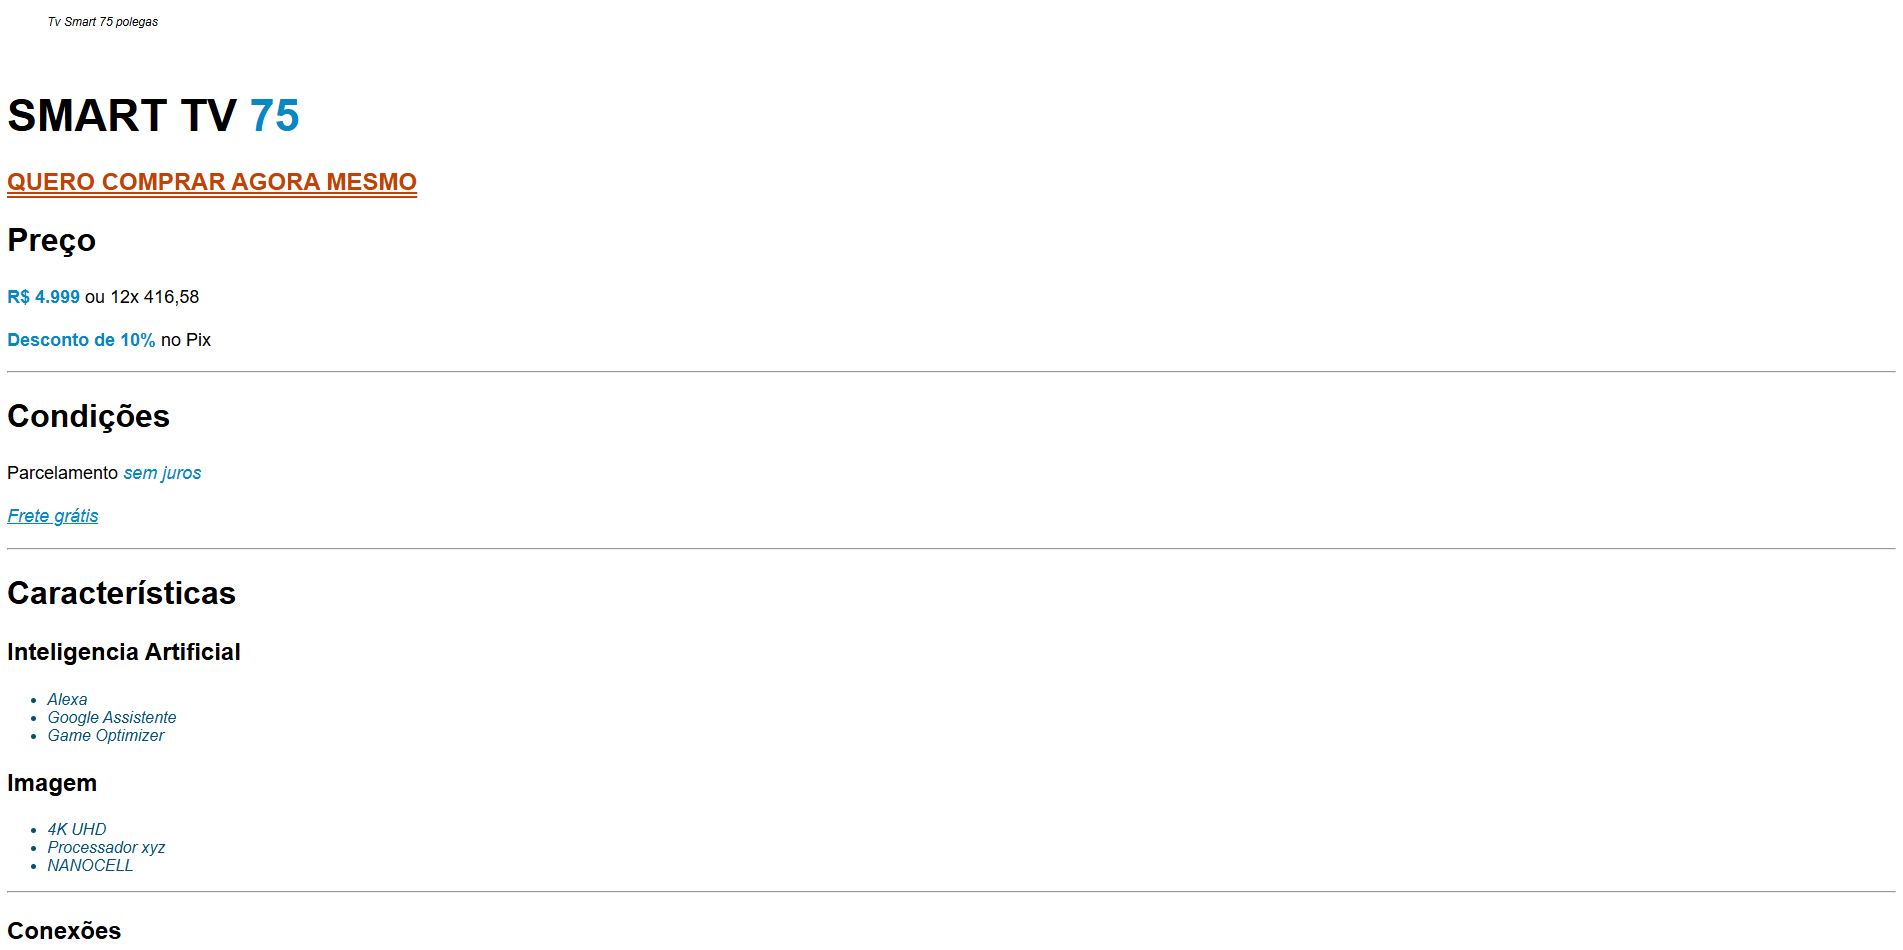
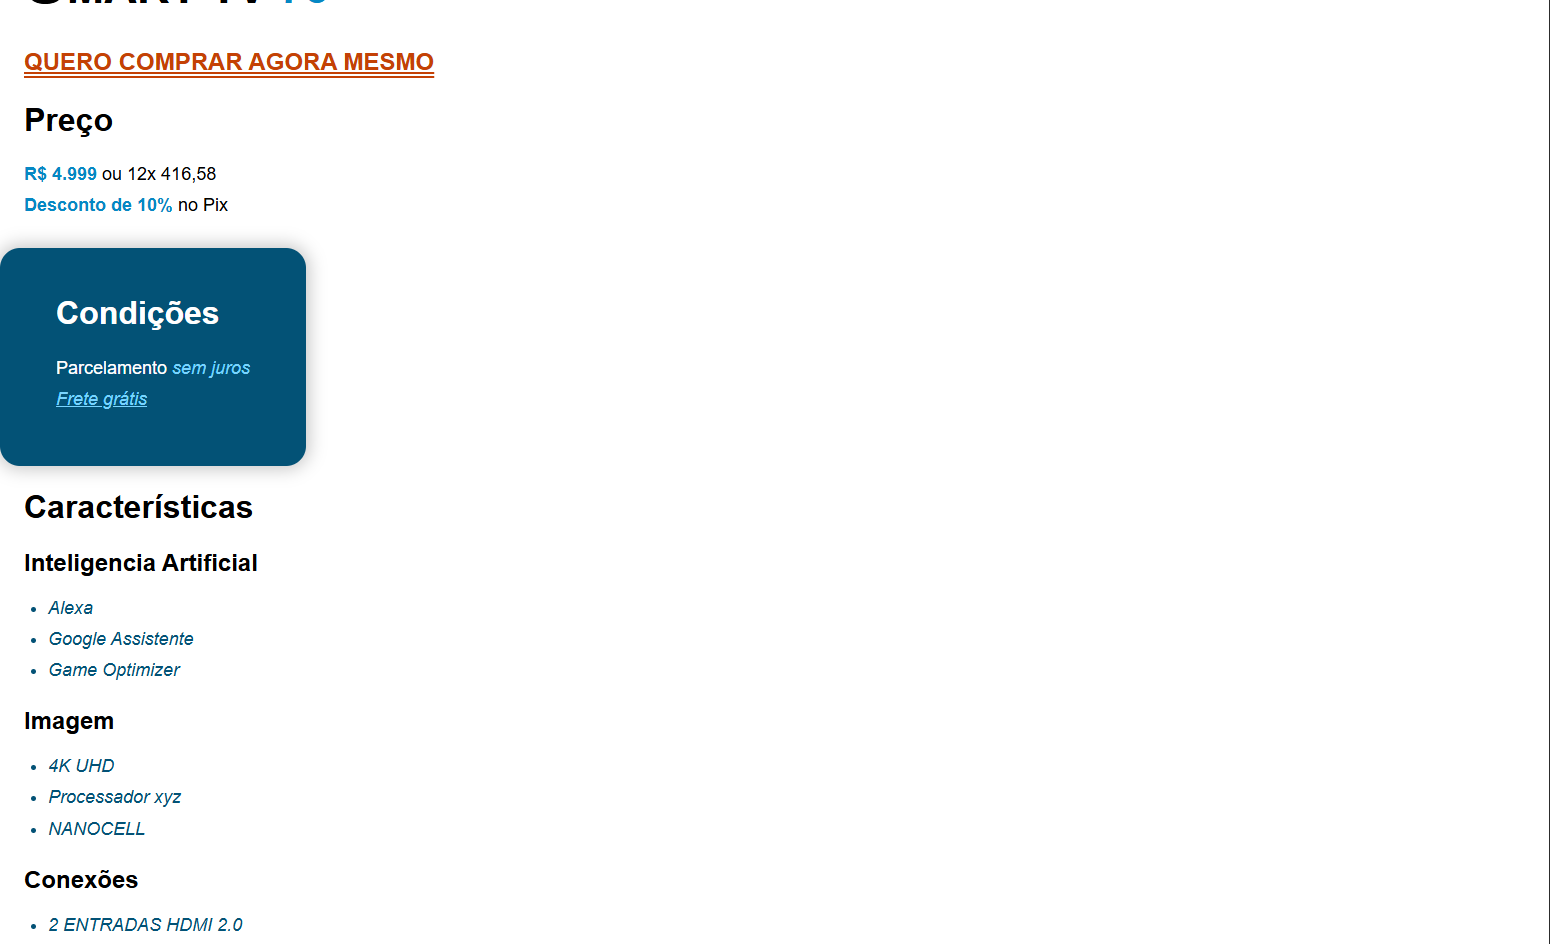
applying Css

diff --git a/store/store.html b/store/store.html
@@ -2,59 +2,67 @@
 <HTMl lang="pt-br">
 
 <head>
-<meta charset="UTF-8">
-<title> Anúncio Smart tv</title>
-<link rel="stylesheet" href="style.css">
+    <meta charset="UTF-8">
+    <title> Anúncio Smart tv</title>
+    <link rel="stylesheet" href="style.css">
 </head>
 
 
 <body>
+    <main>
+        <section>
+            <figure>
+                <img src="Smart TV_led.jpg" height="400px" alt="TV">
+                <figcaption>Tv Smart 75 polegas</figcaption>
+            </figure>
+            <br>
 
-<figure>
-<img src="Smart TV_led.jpg" height="400px" alt="TV">
-<figcaption>Tv Smart 75 polegas</figcaption>
-</figure>
-<br>
-
-<h1>SMART TV <span class="realce-h1">75</span> </h1>
-<a href="#">QUERO COMPRAR AGORA MESMO</a>
-
-
-<h2>Preço</h2>
-<p><strong>R$ 4.999</strong> ou 12x 416,58</p>
-<p><span class="realce-p">Desconto de 10%</span> no Pix</p>
-<hr>
-
-<h2>Condições</h2>
-<p>Parcelamento <span class="realce-italico">sem juros</span></p>
-<p><em class="realce-underline">Frete grátis</em></p>
-<hr>
+            <h1>SMART TV <span class="realce-h1">75</span> </h1>
+            <a href="#">QUERO COMPRAR AGORA MESMO</a>
 
 
-<h2>Características</h2>
-<h3>Inteligencia Artificial</h3>
-<ul>
-    <li>Alexa</li>
-    <li>Google Assistente</li>
-    <li>Game Optimizer</li>
-</ul>
+            <h2>Preço</h2>
+            <p><strong>R$ 4.999</strong> ou 12x 416,58</p>
+            <p><span class="realce-p">Desconto de 10%</span> no Pix</p>
 
-<h3>Imagem</h3>
-<ul>
-    <li>4K UHD</li>
-    <li>Processador xyz</li>
-    <li>NANOCELL</li>
-</ul>
+        </section>
+        <hr>
+        <div class="div-condiçoes">
+        <section>
+            <h2>Condições</h2>
+            <p>Parcelamento <span class="realce-italico">sem juros</span></p>
+            <p><em class="realce-underline">Frete grátis</em></p>
+        </section>
+        </div>
 
-<hr>
-<h3>Conexões</h3>
-<ul>
-    <li>2 ENTRADAS HDMI 2.0</li>
-    <li>2 ENTRADAS USB 3.2</li>
-    <li>SAÍDA DIGITAL OPTICA</li>
-</ul>
-<hr>
+        <hr>
 
+        <section>
+            <h2>Características</h2>
+            <h3>Inteligencia Artificial</h3>
+            <ul>
+                <li>Alexa</li>
+                <li>Google Assistente</li>
+                <li>Game Optimizer</li>
+            </ul>
+
+            <h3>Imagem</h3>
+            <ul>
+                <li>4K UHD</li>
+                <li>Processador xyz</li>
+                <li>NANOCELL</li>
+            </ul>
+
+            <hr>
+            <h3>Conexões</h3>
+            <ul>
+                <li>2 ENTRADAS HDMI 2.0</li>
+                <li>2 ENTRADAS USB 3.2</li>
+                <li>SAÍDA DIGITAL OPTICA</li>
+            </ul>
+            <hr>
+        </section>
+    </main>
 </body>
 
 

diff --git a/store/style.css b/store/style.css
@@ -1,46 +1,63 @@
 
-h1,
-h2,
-h3,
-h4,
-p,
-li,
-a,
-figcaption{
-    font-family: "Montserrat",sans-serif;
-    
+
+
+
+*{
+    padding: 0;
+    margin: 0;
+    box-sizing: border-box;
 }
-h1{
-    font-size: 45px;
-    line-height: 1;
-}
-h2{
-    font-size: 32px;
-    line-height: 1.1;
-}
-h3{
-    font-size: 24px;
-    line-height: 1.2;
-}
-p{
-    font-size: 18px;
+body{
+    font-family: "Montserrat", sans-serif;
+    font-size: 1.8rem;
     line-height: 1.4;
 }
 
-figcaption{
-    font-size:12px ;
-    font-style: italic;
+h1{
+    font-size: 4.5rem;
+    line-height: 1;
+    margin-bottom: 3.2rem;
 }
-a{
+h2{
+    font-size: 3.2rem;
+    line-height: 1.1;
+    margin-bottom: 2.4rem;
+}
+h3{
+    font-size: 2.4rem;
+    line-height: 1.2;
+    margin-bottom: 1.8rem;
+}
+
+figure{
+    margin-bottom: 3.2rem;
+}
+figcaption{
+    font-size:1.2rem ;
+    font-style: italic;
+    margin-left: 3.2rem;
+}
+a:link,a:visited{
     color: #c44105;
-    font-size: 24px;
+    font-size: 2.4rem;
     font-weight: bold;
     text-decoration: double;
     text-decoration-line: underline;
+    display: inline-block;
+    margin-bottom: 2.4rem;
+}
+a:hover,a:active{
+    color: #0588c4;
+}
+
+ul{
+    margin-bottom: 2.4rem;
+    margin-left: 2.4rem;
 }
 li{
     color: #035276;
     font-style: italic;
+    margin-bottom: 0.6rem;
 }
 .realce-h1 {
     color: #0588c4;
@@ -56,4 +73,34 @@ li{
 .realce-underline{
     color:#0588c4 ;
     text-decoration: underline;
+}
+hr{
+    display: none;
+}
+html{
+    font-size: 62.5%;
+}
+section{
+    padding: 2.4rem;
+}
+
+p{
+    margin-bottom: 0.6rem;
+}
+h1::first-letter{
+    font-size: 6.4rem;
+}
+.div-condiçoes{
+    display: inline-block;
+    background-color: #035276;
+    border-radius: 2rem;
+    color: #fff;
+    box-shadow: 0 0 1.6rem 0.4rem rgba(0, 0.8,0, 0.2);
+    padding:  2.4rem 3.2rem;
+    
+}
+.div-condiçoes .realce-italico{
+    color: #78d4ff;
+}.div-condiçoes .realce-underline{
+    color: #78d4ff;
 }
